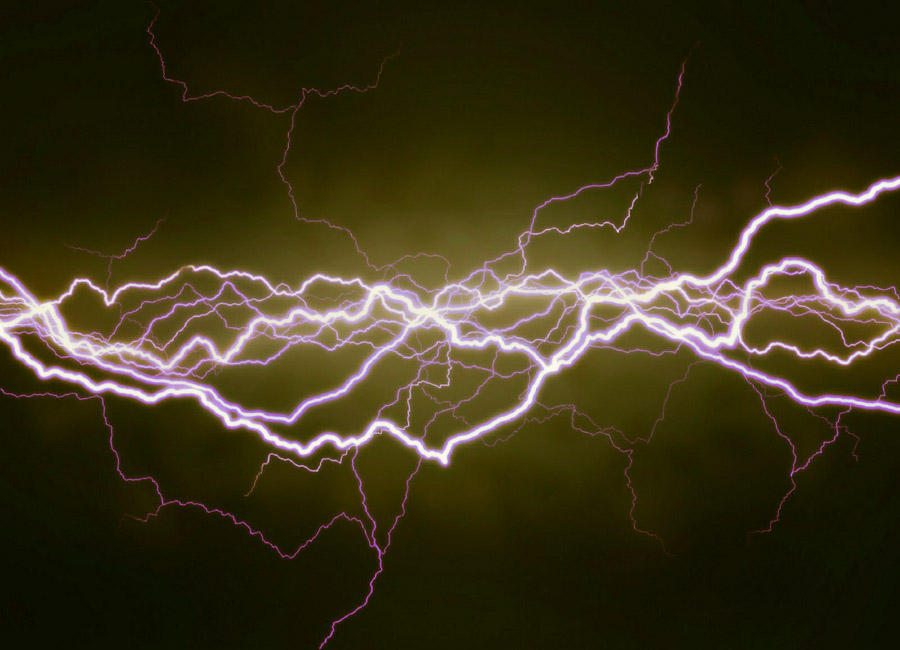
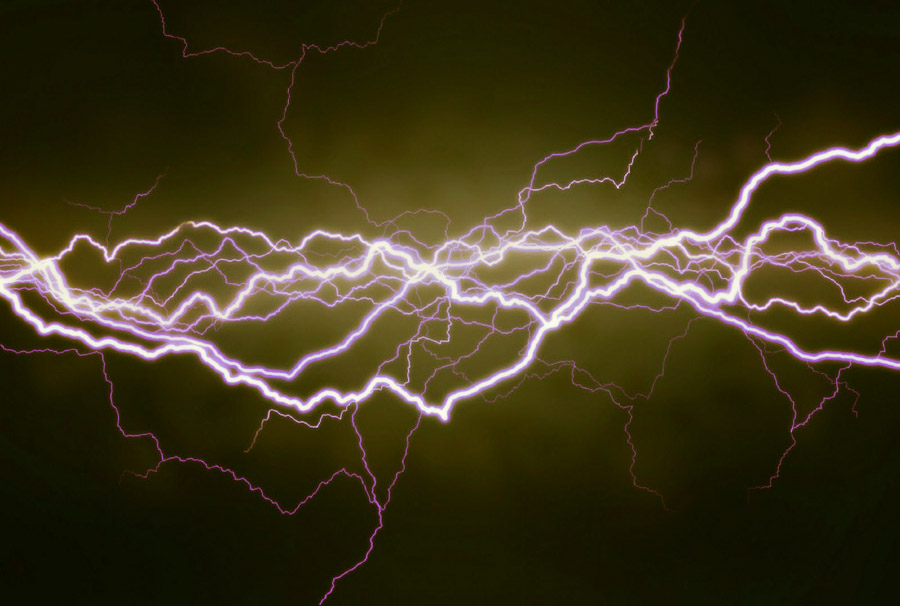
fixed size of mise en conformite image

diff --git a/index.html b/index.html
@@ -217,7 +217,7 @@
                                 <p2>Mise en conformité</p2>
                             </div>
                         </div>
-                        <img src="img/nys/game.jpg" class="img-responsive" alt="">
+                        <img src="img/nys/game.jpg" height="220" class="img-responsive" alt="">
                     </a>
                 </div>
                 <div class="col-sm-4 portfolio-item">
@@ -330,7 +330,7 @@
                         <div class="modal-body">
                           <h2>Mise en conformité</h2>
                           <hr class="star-light">
-                            <img src="img/nys/game.jpg" class="img-responsive img-centered" alt="">
+                            <img src="img/nys/game.jpg" height="220" class="img-responsive img-centered" alt="">
                                 <p>Nous effectuons également les travaux d'électricité nécéssaires à la mise en conformité électrique de vos différentes installations.</p>
                             <ul class="list-inline item-details">
                               <li>&nbsp;</li>
